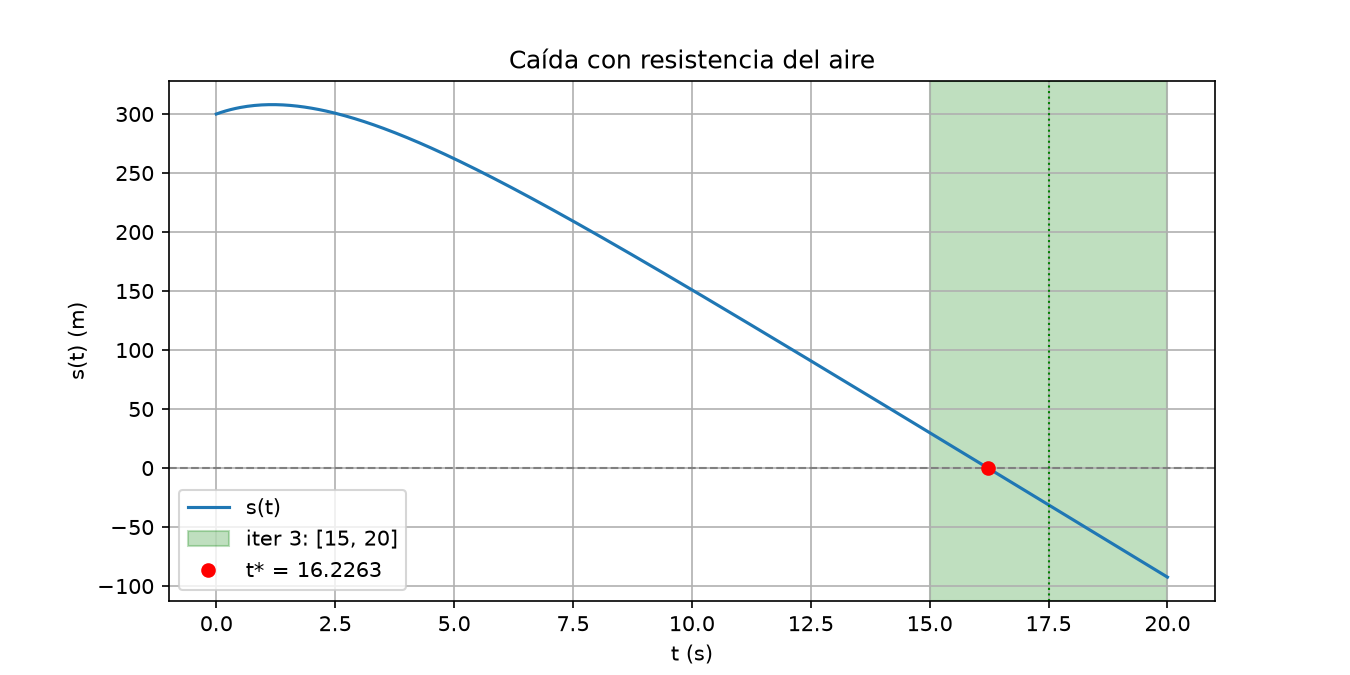
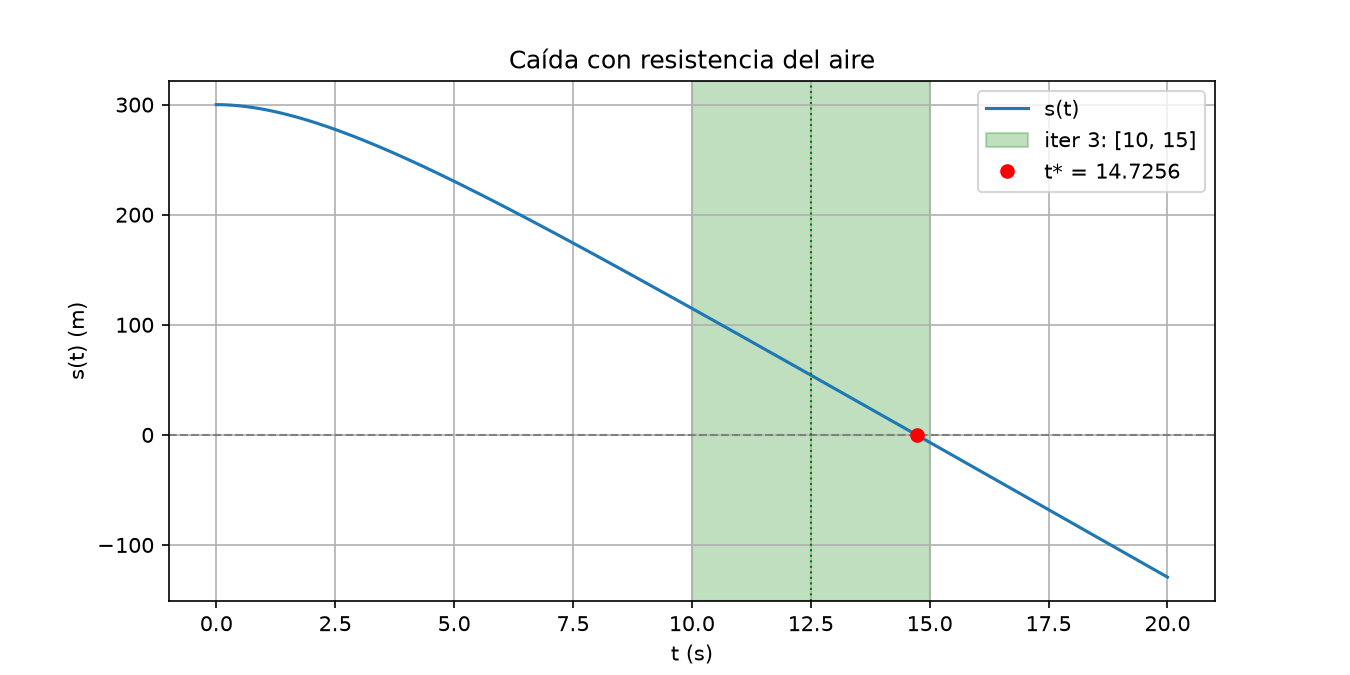
Agregar nuevo archivo y actualizar ejercicios

diff --git a/Ejericico1.py b/Ejericico1.py
@@ -1,0 +1,24 @@
+def biseccion(f, a:float, b:float, TOL:float, N0=100):
+    """Devuelve (p, historia), con historia = [(a, b, p) por iteración]."""
+    FA = f(a)
+    historia = []
+    i = 1
+    while i <= N0:
+        p = a + (b-a)/2                                   # COMPLETE: punto medio estable
+        FP = f(p)
+        historia.append((a, b, p))                         # COMPLETE: (a, b, p)
+        if FP == 0 or (b-a)/2 < TOL:                          # COMPLETE: parada por TOL
+            return p, historia
+        i = i + 1
+        if FA * FP > 0:
+            a=p      
+            FA=FP                               # COMPLETE: mover a y FA
+        else:
+            b=p                                     # COMPLETE: mover b
+    raise RuntimeError(f"fracasó después de {N0} iteraciones")
+
+def f(x:float) -> float:
+    return x**3 + 4*x**2 -10
+
+p, historia = biseccion(f, 1.0, 2.0, 1e-2)
+print(f"Resultado: {p} con iteraciones = {len(historia)} e historia = {historia}")

diff --git a/Funcion.py b/Funcion.py
@@ -1,3 +1,4 @@
+
 import numpy as np
 import matplotlib.pyplot as plt
 
@@ -25,7 +26,7 @@ s0, m, k = 300.0, 0.25, 0.1
 
 
 def s(t):
-    return s0 - (m * g / k) * t + (m * 2 * g / k * 2) * (1 - np.exp(-k * t / m))
+    return s0 - (m * g / k) * t + (m ** 2 * g / k ** 2) * (1 - np.exp(-k * t / m))
 
 
 def graficar(t_star, historia, k_iteracion=None, archivo="caida.png"):
@@ -48,6 +49,7 @@ def graficar(t_star, historia, k_iteracion=None, archivo="caida.png"):
     plt.grid(True)
     plt.savefig(archivo, dpi=150)
     plt.show()
+
 
 t_star, historia = biseccion(s, 0.0, 20.0, TOL=1e-4)
 
